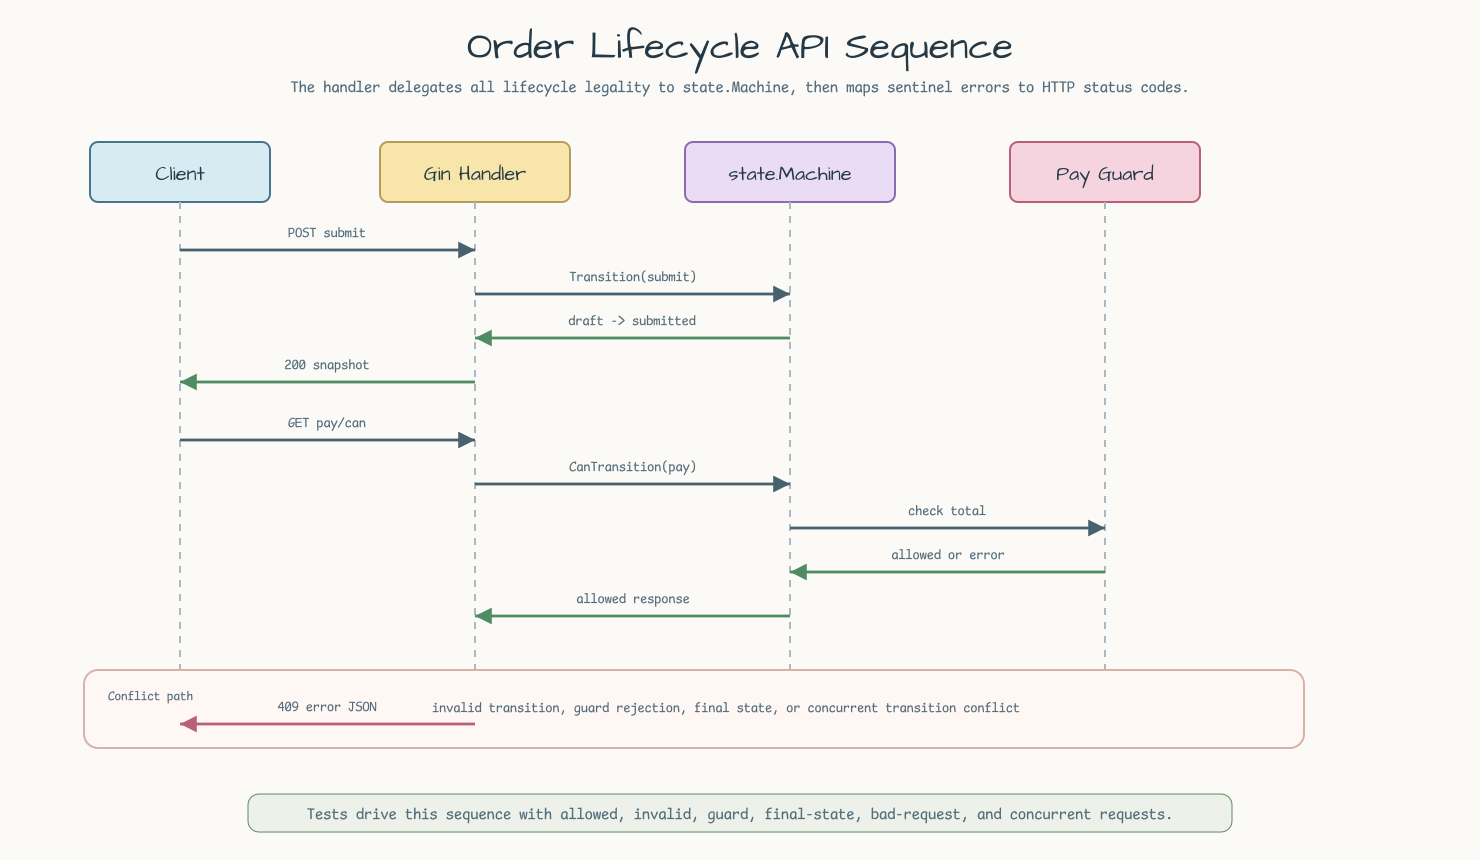
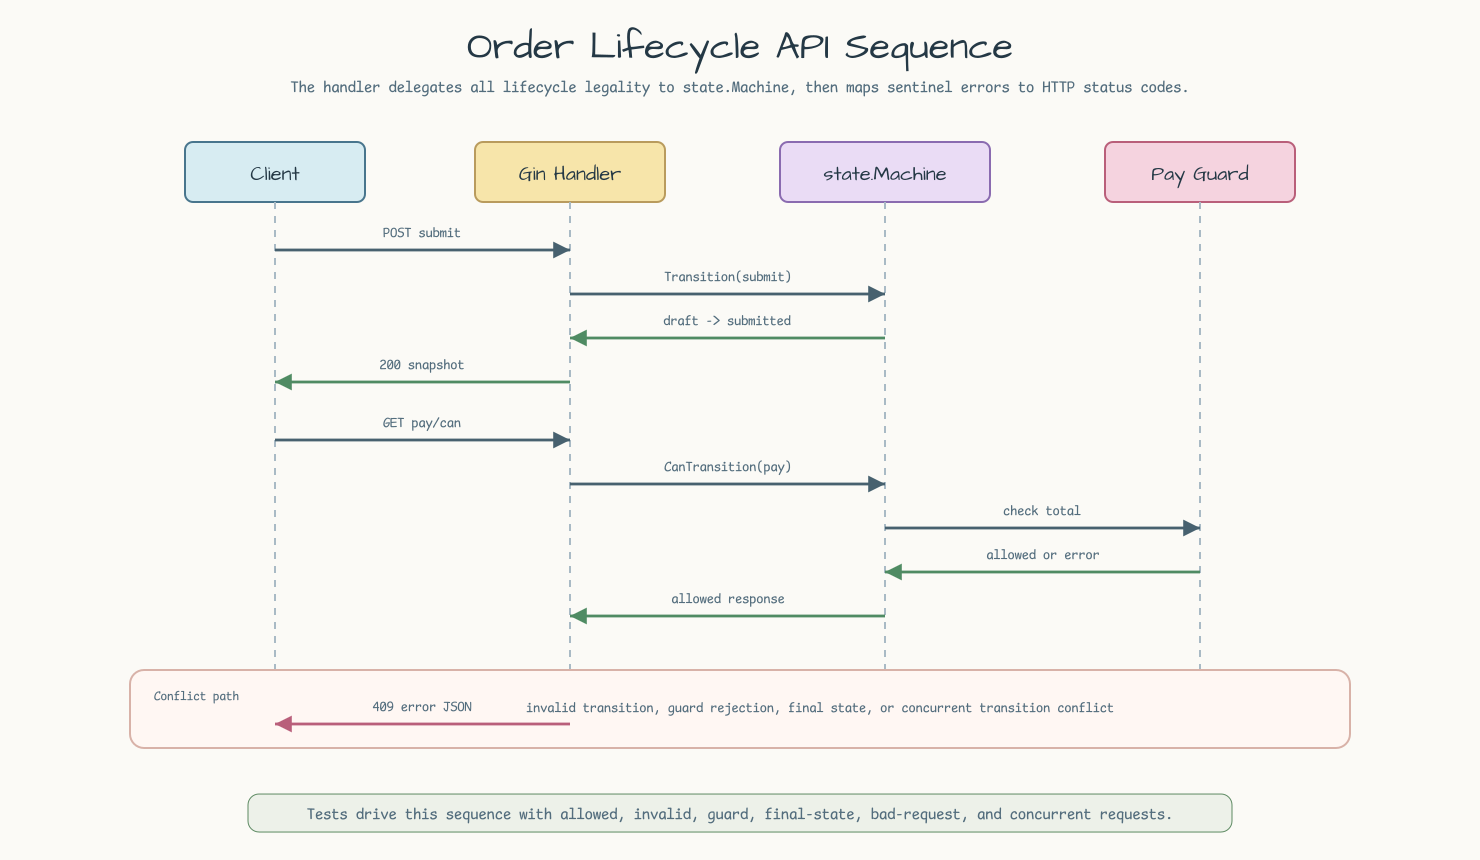
Strengthen order lifecycle example evidence
Cover can-transition edge cases, cancel final-state paths, default option normalization, and review-requested diagram layout fixes.

Constraint: PR #82 review comments require the Paid-to-Cancelled route and sequence margins to satisfy bluetape4k-diagram gates.

Rejected: changing runtime behavior to satisfy test gaps | existing behavior is correct and only needed stronger evidence.

Confidence: high

Scope-risk: narrow

Directive: keep future diagram edits script-generated and inspect rendered PNGs before resolving review threads.

Tested: bash scripts/generate-order-lifecycle-diagrams.sh; go test -count=1 ./examples/order-lifecycle-state-api/...; go test -race -count=1 ./examples/order-lifecycle-state-api/...; make ci

Not-tested: GitHub Actions has not rerun for this follow-up commit yet.

diff --git a/examples/order-lifecycle-state-api/internal/orderstate/server_test.go b/examples/order-lifecycle-state-api/internal/orderstate/server_test.go
@@ -72,6 +72,94 @@ func TestServerAllowedTransitionPath(t *testing.T) {
 	assertEvents(t, payResponse.Order.AllowedEvents, []OrderEvent{EventPack, EventCancel})
 }
 
+func TestServerTransitionRequestNormalizesEventInputAndUsesDefaults(t *testing.T) {
+	server, err := NewServer(Options{})
+	if err != nil {
+		t.Fatalf("new server with defaults: %v", err)
+	}
+
+	response := performRequest(t, server, http.MethodPost, "/orders/current/transitions", []byte(`{"event":" SUBMIT "}`))
+	if response.Code != http.StatusOK {
+		t.Fatalf("submit status = %d, want %d: %s", response.Code, http.StatusOK, response.Body.String())
+	}
+
+	body := decodeResponse[transitionResponse](t, response)
+	if body.Order.OrderID != "order-1001" {
+		t.Fatalf("default order id = %q, want order-1001", body.Order.OrderID)
+	}
+	if body.Event != EventSubmit {
+		t.Fatalf("event = %q, want %q", body.Event, EventSubmit)
+	}
+	if body.Current != StateSubmitted {
+		t.Fatalf("current = %q, want %q", body.Current, StateSubmitted)
+	}
+}
+
+func TestServerCanTransitionEndpointReportsUnavailableWithoutMutating(t *testing.T) {
+	server := newTestServer(t, 12_900)
+
+	pay := performRequest(t, server, http.MethodGet, "/orders/current/transitions/pay/can", nil)
+	if pay.Code != http.StatusOK {
+		t.Fatalf("can pay from draft status = %d, want %d", pay.Code, http.StatusOK)
+	}
+	payBody := decodeResponse[canTransitionResponse](t, pay)
+	if payBody.Allowed {
+		t.Fatalf("pay allowed from draft = true, want false")
+	}
+	if payBody.Error == "" {
+		t.Fatalf("pay unavailable error is empty")
+	}
+	if payBody.State != StateDraft || payBody.Order.State != StateDraft {
+		t.Fatalf("can pay mutated state: response=%#v", payBody)
+	}
+
+	snapshot := currentSnapshot(t, server)
+	if snapshot.State != StateDraft {
+		t.Fatalf("state after can pay = %q, want %q", snapshot.State, StateDraft)
+	}
+}
+
+func TestServerCanTransitionEndpointMapsGuardRejection(t *testing.T) {
+	server := newTestServer(t, 0)
+
+	submit := postTransition(t, server, EventSubmit)
+	if submit.Code != http.StatusOK {
+		t.Fatalf("submit status = %d, want %d", submit.Code, http.StatusOK)
+	}
+
+	pay := performRequest(t, server, http.MethodGet, "/orders/current/transitions/pay/can", nil)
+	if pay.Code != http.StatusConflict {
+		t.Fatalf("can pay guarded status = %d, want %d", pay.Code, http.StatusConflict)
+	}
+	body := decodeResponse[errorResponse](t, pay)
+	if body.Code != "guard_rejected" {
+		t.Fatalf("error code = %q, want guard_rejected", body.Code)
+	}
+
+	snapshot := currentSnapshot(t, server)
+	if snapshot.State != StateSubmitted {
+		t.Fatalf("state after can pay guard rejection = %q, want %q", snapshot.State, StateSubmitted)
+	}
+}
+
+func TestServerCanTransitionEndpointRejectsUnknownEvent(t *testing.T) {
+	server := newTestServer(t, 12_900)
+
+	response := performRequest(t, server, http.MethodGet, "/orders/current/transitions/refund/can", nil)
+	if response.Code != http.StatusBadRequest {
+		t.Fatalf("unknown can-transition status = %d, want %d", response.Code, http.StatusBadRequest)
+	}
+	body := decodeResponse[errorResponse](t, response)
+	if body.Code != "unknown_event" {
+		t.Fatalf("error code = %q, want unknown_event", body.Code)
+	}
+
+	snapshot := currentSnapshot(t, server)
+	if snapshot.State != StateDraft {
+		t.Fatalf("state after unknown can-transition = %q, want %q", snapshot.State, StateDraft)
+	}
+}
+
 func TestServerInvalidTransitionReturnsConflictAndKeepsState(t *testing.T) {
 	server := newTestServer(t, 12_900)
 
@@ -113,6 +201,50 @@ func TestServerGuardRejectionReturnsConflictAndKeepsState(t *testing.T) {
 	}
 }
 
+func TestServerCancelTransitionsReachFinalStateFromAllowedStates(t *testing.T) {
+	tests := []struct {
+		name   string
+		events []OrderEvent
+	}{
+		{name: "from draft"},
+		{name: "from submitted", events: []OrderEvent{EventSubmit}},
+		{name: "from paid", events: []OrderEvent{EventSubmit, EventPay}},
+	}
+
+	for _, tt := range tests {
+		t.Run(tt.name, func(t *testing.T) {
+			server := newTestServer(t, 12_900)
+			for _, event := range tt.events {
+				response := postTransition(t, server, event)
+				if response.Code != http.StatusOK {
+					t.Fatalf("%s status = %d, want %d", event, response.Code, http.StatusOK)
+				}
+			}
+
+			cancel := postTransition(t, server, EventCancel)
+			if cancel.Code != http.StatusOK {
+				t.Fatalf("cancel status = %d, want %d", cancel.Code, http.StatusOK)
+			}
+			cancelBody := decodeResponse[transitionResponse](t, cancel)
+			if cancelBody.Current != StateCancelled || cancelBody.Order.State != StateCancelled {
+				t.Fatalf("cancel response = %#v, want cancelled", cancelBody)
+			}
+			if len(cancelBody.Order.AllowedEvents) != 0 {
+				t.Fatalf("allowed events after cancel = %#v, want empty", cancelBody.Order.AllowedEvents)
+			}
+
+			submit := postTransition(t, server, EventSubmit)
+			if submit.Code != http.StatusConflict {
+				t.Fatalf("submit after cancel status = %d, want %d", submit.Code, http.StatusConflict)
+			}
+			errBody := decodeResponse[errorResponse](t, submit)
+			if errBody.Code != "final_state" {
+				t.Fatalf("submit after cancel code = %q, want final_state", errBody.Code)
+			}
+		})
+	}
+}
+
 func TestServerFinalStateRejectsFurtherTransitions(t *testing.T) {
 	server := newTestServer(t, 12_900)
 
@@ -139,6 +271,18 @@ func TestServerFinalStateRejectsFurtherTransitions(t *testing.T) {
 	if len(snapshot.AllowedEvents) != 0 {
 		t.Fatalf("allowed events in final state = %#v, want empty", snapshot.AllowedEvents)
 	}
+
+	canPay := performRequest(t, server, http.MethodGet, "/orders/current/transitions/pay/can", nil)
+	if canPay.Code != http.StatusOK {
+		t.Fatalf("can pay after shipped status = %d, want %d", canPay.Code, http.StatusOK)
+	}
+	canPayBody := decodeResponse[canTransitionResponse](t, canPay)
+	if canPayBody.Allowed {
+		t.Fatalf("pay allowed after shipped = true, want false")
+	}
+	if canPayBody.State != StateShipped {
+		t.Fatalf("can pay state = %q, want %q", canPayBody.State, StateShipped)
+	}
 }
 
 func TestServerBadRequests(t *testing.T) {
@@ -151,6 +295,15 @@ func TestServerBadRequests(t *testing.T) {
 	malformedBody := decodeResponse[errorResponse](t, malformed)
 	if malformedBody.Code != "invalid_request" {
 		t.Fatalf("malformed error code = %q, want invalid_request", malformedBody.Code)
+	}
+
+	missingEvent := performRequest(t, server, http.MethodPost, "/orders/current/transitions", []byte(`{}`))
+	if missingEvent.Code != http.StatusBadRequest {
+		t.Fatalf("missing event status = %d, want %d", missingEvent.Code, http.StatusBadRequest)
+	}
+	missingEventBody := decodeResponse[errorResponse](t, missingEvent)
+	if missingEventBody.Code != "invalid_request" {
+		t.Fatalf("missing event code = %q, want invalid_request", missingEventBody.Code)
 	}
 
 	unknown := performRequest(t, server, http.MethodPost, "/orders/current/transitions", []byte(`{"event":"refund"}`))

diff --git a/docs/superpowers/reviews/2026-06-08-issue-38-order-lifecycle-state-api-code-review.md b/docs/superpowers/reviews/2026-06-08-issue-38-order-lifecycle-state-api-code-review.md
@@ -48,7 +48,7 @@ No findings.
 Evidence:
 
 - User-controlled transition input is parsed through Gin JSON binding and a closed event parser before reaching the state machine: `server.go:171-184`, `server.go:233-247`.
-- Unknown events and malformed JSON return `400` instead of flowing into dynamic execution: `server.go:171-181`.
+- Unknown events and malformed JSON return `400` instead of flowing into dynamic execution: `server.go:171-181`; tests cover POST and can-transition unknown-event paths in `server_test.go:145-161`, `server_test.go:288-317`.
 - The example has no database, no secrets, no auth boundary, and no unsafe deserialization path.
 
 ## Tier 2: Ops/SRE Reliability
@@ -82,7 +82,7 @@ Evidence:
 - Exported public types/constants have English comments: `server.go:15-47`, `server.go:56-63`, `server.go:71-77`, `server.go:103-134`.
 - The server preserves context propagation from request handlers into `state.Machine`: `server.go:184`, `server.go:205`.
 - `errors.Is` is used for bluetape-go/state sentinel errors: `server.go:250-264`.
-- Production concurrency quick scan hit only the intended concurrency test goroutine: `server_test.go:176-180`.
+- Production concurrency quick scan hit only the intended concurrency test goroutine: `server_test.go:329-333`.
 - `make ci` passed after lint fixes.
 
 ## Tier 5: Tests, Types, Silent Failure
@@ -93,12 +93,15 @@ Evidence:
 
 - Health and initial state: `server_test.go:20-41`.
 - Allowed transition path and can-transition inquiry: `server_test.go:43-73`.
-- Invalid transition keeps state unchanged: `server_test.go:75-91`.
-- Guard rejection keeps state unchanged: `server_test.go:93-114`.
-- Final state rejects further transitions: `server_test.go:116-142`.
-- Malformed JSON and unknown events return `400`: `server_test.go:144-164`.
-- Concurrent duplicate transition is race-safe and leaves one valid state: `server_test.go:166-211`.
-- Request tests use `httptest.NewRequestWithContext`: `server_test.go:243-253`.
+- Default options and normalized event input: `server_test.go:75-96`.
+- Can-transition unavailable, guard rejection, and unknown-event paths: `server_test.go:98-161`.
+- Invalid transition keeps state unchanged: `server_test.go:163-179`.
+- Guard rejection keeps state unchanged: `server_test.go:181-202`.
+- Cancel from draft, submitted, and paid reaches a final state: `server_test.go:204-246`.
+- Final state rejects further transitions and can-transition reports unavailable: `server_test.go:248-286`.
+- Malformed JSON, missing event, and unknown events return `400`: `server_test.go:288-317`.
+- Concurrent duplicate transition is race-safe and leaves one valid state: `server_test.go:319-364`.
+- Request tests use `httptest.NewRequestWithContext`: `server_test.go:396-406`.
 
 ## Tier 6: Performance/Stability
 

diff --git a/docs/superpowers/reviews/2026-06-08-issue-38-order-lifecycle-state-api-verifier-checklist.md b/docs/superpowers/reviews/2026-06-08-issue-38-order-lifecycle-state-api-verifier-checklist.md
@@ -28,11 +28,14 @@ Spec and plan are satisfied by the current staged diff.
 |---|---|---|
 | Gin routes expose current state and transition commands | `server.go:115-128` registers Gin routes for health, current state, transition command, and can-transition inquiry. | PASS |
 | State machine models order lifecycle | `server.go:138-151` defines draft, submitted, paid, packed, shipped, and cancelled transitions with final states. | PASS |
-| Payment guard rejects non-positive totals | `server.go:154-160` and `server_test.go:93-114`. | PASS |
-| Invalid transition, guard, final-state, and concurrent errors map to HTTP responses | `server.go:250-264`; tests cover invalid, guard, final, and concurrent cases in `server_test.go:75-211`. | PASS |
+| Payment guard rejects non-positive totals | `server.go:154-160` and `server_test.go:122-143`, `server_test.go:181-202`. | PASS |
+| Invalid transition, guard, final-state, and concurrent errors map to HTTP responses | `server.go:250-264`; tests cover invalid, guard, final, and concurrent cases in `server_test.go:98-202`, `server_test.go:248-286`, `server_test.go:319-364`. | PASS |
 | Tests cover allowed transitions | `server_test.go:43-73`. | PASS |
-| Tests cover bad requests and unknown events | `server_test.go:144-164`. | PASS |
-| Tests cover concurrent request safety | `server_test.go:166-211`; `go test -race -count=1 ./examples/order-lifecycle-state-api/...` passed. | PASS |
+| Tests cover can-transition false, guard, final, and unknown-event paths | `server_test.go:98-161`, `server_test.go:275-285`. | PASS |
+| Tests cover cancel from every allowed source state | `server_test.go:204-246`. | PASS |
+| Tests cover default options and normalized event input | `server_test.go:75-96`. | PASS |
+| Tests cover bad requests and unknown events | `server_test.go:288-317`. | PASS |
+| Tests cover concurrent request safety | `server_test.go:319-364`; `go test -race -count=1 ./examples/order-lifecycle-state-api/...` passed. | PASS |
 | README explains when finite state machine is enough without workflow runner | `README.md:62-74`; localized pair mirrors the content. | PASS |
 | README includes scenario, Architecture, and Sequence Diagram using bluetape4k-diagram rules | `README.md:9-16`, `README.md:76-91`; script emits PNG/SVG/dot/plain/graphviz assets and gate summaries. | PASS |
 | Root README navigation and web framework wording updated | Root `README.md` and `README.ko.md` include the new example and clarify Gin for framework-visible public APIs. | PASS |
